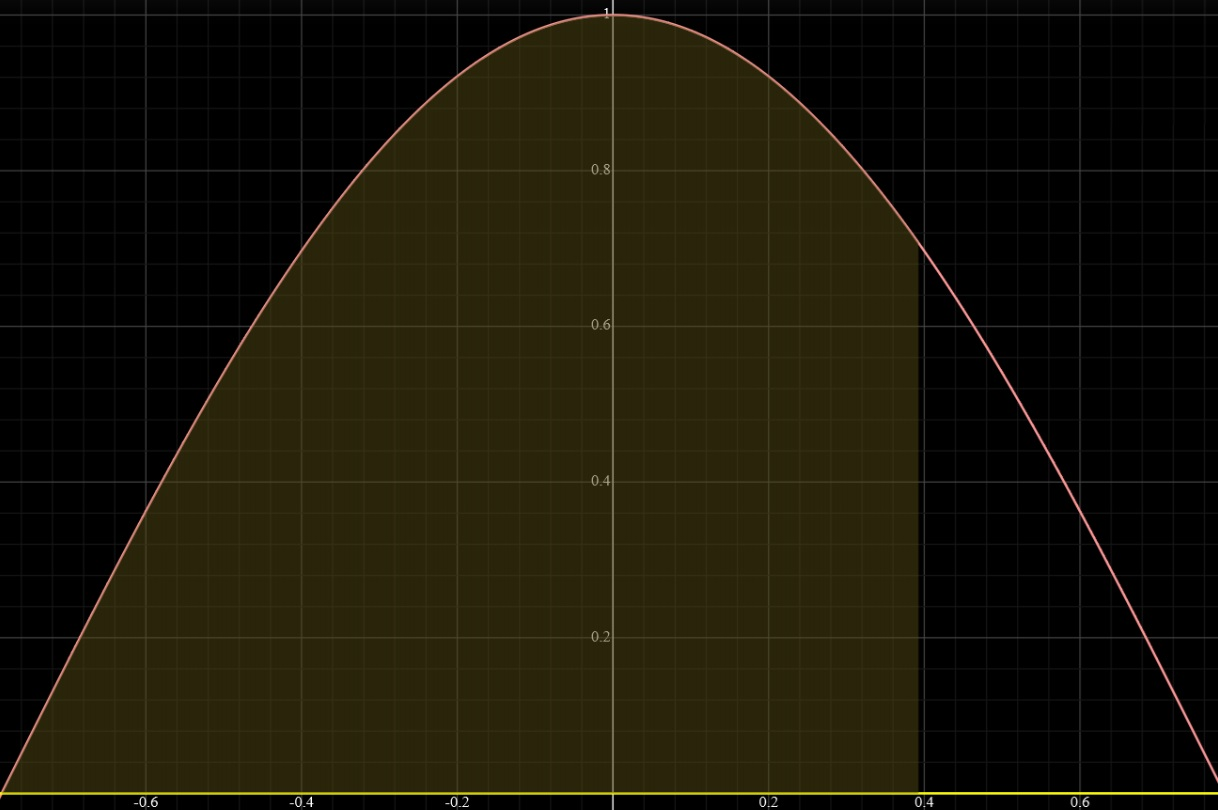
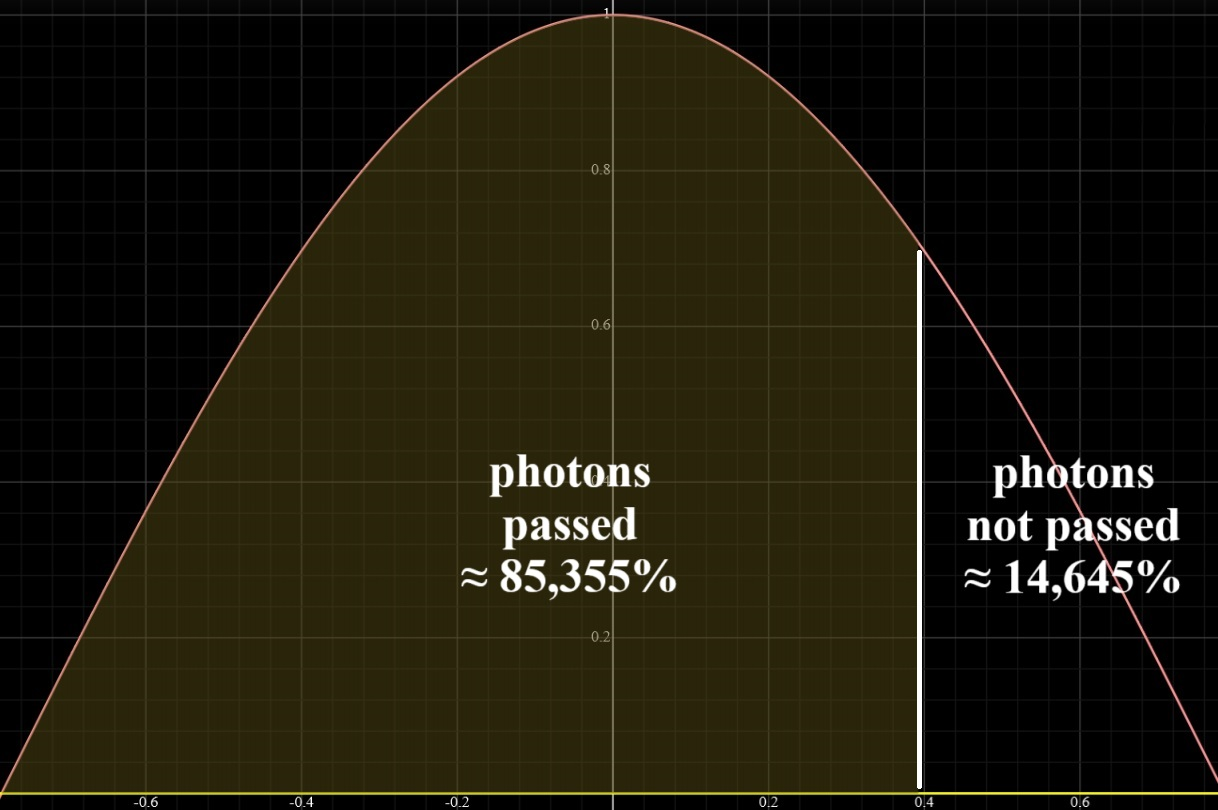
paper1 text fix

Changed region(s): [[0.7488, 0.3086, 0.9672, 0.9877], [0.3744, 0.5556, 0.5616, 0.7407]]

diff --git a/docs/Papers/UnsolvedTwinParadoxLight.ru.md b/docs/Papers/UnsolvedTwinParadoxLight.ru.md
@@ -134,7 +134,7 @@ $v''=l''/t_2=\frac {(l/\gamma)}{(t_1/\gamma)}=v$.
 
 [Квантовый ластик](https://ru.wikipedia.org/wiki/%D0%9A%D0%B2%D0%B0%D0%BD%D1%82%D0%BE%D0%B2%D1%8B%D0%B9_%D0%BB%D0%B0%D1%81%D1%82%D0%B8%D0%BA) также необходимо упомянуть. Добавление линейного поляризатора на первом пути отфильтровывает часть фотонов, которые дополняли интерференционную картину на втором детекторе. То есть физически они также детектируются, но мы их не учитываем. Фактически добавление линейного поляризатора на первом пути не убирает фотоны на втором, а мы их просто исключаем из выборки. Физически второй детектор регистрирует две интерференционные картины, наложенные со смещением, что в сумме дает картину без интерференции. Однако добавлением линейного поляризатора на первом пути мы исключаем из выборки второго детектора фотоны одной из интерференционных картин, а значит, оставляем в выборке только одну интерференционную картину. В результате нет никакой магии квантовой механики, "отложенного выбора" и "чудовищного дальнодействия", а лишь некорректная интерпретация происходящего в эксперименте.
 
-В итоге дифракция, интерференция, кольца Ньютона, поляризация и все прочее - это лишь переизлучение частиц атомами барьеров с соответствующим распределением частиц по векторам. Ключевым моментом, доказывающим, что свет - это частицы, а не волны, является факт отсутствия возможности проведения эксперимента, в котором волны в противофазе гасили бы друг друга. Фактически теория корпускулярно-волнового дуализма позволяет разделить пучок фотонов на две части, прошедшие разные пути и попавшие на детектор или экран в противофазе и полностью погасить друг друга. Но это не удается воспроизвести экспериментально. Более того, нет даже падения интенсивности, что подтверждает концепцию переизлучения с перераспределением частиц. 
+В итоге дифракция, интерференция, кольца Ньютона, поляризация и все прочее - это лишь переизлучение частиц атомами барьеров с соответствующим распределением частиц по векторам. Ключевым моментом, доказывающим, что свет - это частицы, а не волны, является факт отсутствия возможности проведения эксперимента, в котором волны в противофазе гасили бы друг друга. Фактически теория корпускулярно-волнового дуализма позволяет разделить пучок монохромных когерентных фотонов на две части, прошедшие разные пути и попавшие на детектор или экран в противофазе и полностью погасить друг друга. Но это не удается воспроизвести экспериментально. Более того, нет даже падения интенсивности, что подтверждает концепцию переизлучения с перераспределением частиц. 
 
 Необходимо также отметить эксперимент по дифракции на полуплоскости. Его интерпретация согласно корпускулярно-волновому дуализму представлена на рисунке 5. Здесь наблюдается огибание препятствия с распространением частиц в область геометрической тени и полосы с разной интенсивностью частиц на экране. Тут нет наложения волн от двух и более источников, так как физически атомная граница полуплоскости одна. Однако в интерпретации корпускулярно-волнового дуализма здесь должны быть источники вторичных волн в плоскости расположения полуплоскости. Причем именно в пустом пространстве. Это противоречит реальности, так как нет экспериментальных данных доказывающих, что пустота может стать источником переизлучения и, соответственно, вторичных волн. В итоге, данный эксперимент заключается в простом переизлучении атомами края полуплоскости с соответствующим распределением по векторам. 
 
@@ -144,9 +144,9 @@ $v''=l''/t_2=\frac {(l/\gamma)}{(t_1/\gamma)}=v$.
 
 Давайте разберемся, что же именно происходит при дифракции и интерференции. Есть ли научно доказанные экспериментальные факты, что в вакууме меняется направление фотонов без внешних воздействий? Нет. Все фотоны или любые другие частицы, на которые ничего не воздействует или воздействия скомпенсированы, двигаются равномерно и прямолинейно. Когда возникает картина интерференции или дифракции? Только после взаимодействия с атомами препятствий. То есть именно атомы препятствий ответственны за отклонение траекторий частиц (переизлучение) со специфическим распределением по векторам. Давайте разберем, что именно происходит на примере фотона. Хорошо известно, что энергия и, соответственно, частота фотона квантуется. Почему? Так как фотон - это группа квант фотонов и их количество определяет энергию и частоту результирующего фотона. Что происходит при взаимодействии фотонов с атомами препятствия? По всей видимости, электроны препятствия взаимодействуют с фотонами и переизлучают их с соответствующим распределением по векторам. Причем чем выше энергия и частота, то есть количество квант фотонов в фотоне, тем сложнее электрону отклонять фотон и тем меньше углы переизлучения. Аналогично происходит и в случае интерференции или дифракции с другими частицами. И снова никакой магии. Всё просто и понятно.
 
-Необходимо также упомянуть эксперимент с тремя или более поляризаторами, повернутыми на разные углы, который интерпретируют как неопровержимое доказательство квантово-механической природы вселенной. Далее считаем, что поляризаторы идеальные и пропускают 50% фотонов, которые генерируются с равномерным распределением вероятностей их плоскости поляризации. Если поставить два поляризационных фильтра под углом девяносто градусов, то считается, что свет не проходит, так как первый блокирует одно направление волны, а второй - перпендикулярное, то есть все остальное. И из-за этого и не проходят фотоны. Если взять три поляризатора $0^o$, $45^o$, $90^o$, то свет частично проходит. Почему? Дело в неправильной интерпретации фотона и механизма действия поляризатора. 
+Необходимо также упомянуть эксперимент с тремя или более поляризаторами, повернутыми на разные углы, который интерпретируют как неопровержимое доказательство квантово-механической природы вселенной. Далее считаем, что поляризаторы идеальные и пропускают 50% фотонов, которые были сгенерированы с равномерным распределением вероятностей их плоскости поляризации. Если поставить два поляризационных фильтра под углом девяносто градусов, то считается, что свет не проходит, так как первый блокирует одно направление волны, а второй - перпендикулярное, то есть все остальное. И из-за этого и не проходят фотоны. Если взять три поляризатора $0^o$, $45^o$, $90^o$, то свет частично проходит. Почему? Дело в неправильной интерпретации фотона и механизма действия поляризатора. 
 
-Если фотон проходит поляризатор, то он переизлучается с косинусоидальным распределением плоскости поляризации относительно оси данного поляризатора. А именно: $cos(2x)$, где $x$ - угол между осью поляризатора, который преизлучает фотон, и плоскостью поляризации излученного фотона, причем  $-\pi/4 \leq x \leq \pi/4$. Кроме того, поляризатор пропускает только фотоны с плоскостью поляризации в интервале $-\pi/4 \leq x \leq \pi/4$ относительно оси данного поляризатора. Легко понять, что если оси поляризаторов совпадают, то все фотоны пройдут между ними. Если между осями поляризаторов угол, например, $\pi/8 \; (22,5^o)$, то не пройдут второй поляризатор $\int_{-\pi/4}^{\pi/4} cos(2x) \,dx - \int_{-\pi/4}^{(\pi/4-\pi/8)} cos(2x) \,dx \approx$$1-0.85355\approx0,14645\%$ фотонов. 
+Если фотон проходит поляризатор, то он переизлучается с косинусоидальным распределением плоскости поляризации относительно оси данного поляризатора. А именно: $cos(2x)$, где $x$ - угол между осью поляризатора, который преизлучает фотон, и плоскостью поляризации излученного фотона, причем  $-\pi/4 \leq x \leq \pi/4$. Кроме того, поляризатор пропускает только фотоны с плоскостью поляризации в интервале $-\pi/4 \leq x \leq \pi/4$ относительно оси данного поляризатора. Легко понять, что если оси поляризаторов совпадают, то все фотоны пройдут между ними. Если между осями поляризаторов угол, например, $\pi/8 \; (22,5^o)$, то не пройдут второй поляризатор $\int_{-\pi/4}^{\pi/4} cos(2x) \,dx - \int_{-\pi/4}^{(\pi/4-\pi/8)} cos(2x) \,dx \approx$$1-0,85355\approx0,14645\approx$$14,645\%$ фотонов. 
 
 На рисунке 6 представлена картина прохождения сквозь поляризатор всех фотонов ($\int_{-\pi/4}^{\pi/4} cos(2x) \,dx$), если угол между осями поляризаторов $0^o$. 
 
@@ -162,7 +162,7 @@ $v''=l''/t_2=\frac {(l/\gamma)}{(t_1/\gamma)}=v$.
 
 **Рисунок 7 – Картина прохождения сквозь поляризатор фотонов ($\int_{-\pi/4}^{(\pi/4-\pi/8)} cos(2x) \,dx$), если угол между осями поляризаторов $\pi/8 \; (22,5^o)$** 
 
-Если между осями поляризаторов угол, например, $\pi/6 \; (30^o)$, то не пройдут второй поляризатор $\int_{-\pi/4}^{\pi/4} cos(2x) \,dx - \int_{-\pi/4}^{(\pi/4-\pi/6)} cos(2x) \,dx =$$1-0.75=0,25\%$ фотонов. Получаем, что не важно сколько поляризаторов фотон проходил до этого. Важно, что каждый фотон будет заново переизлучен при прохождении сквозь поляризатор и изменит свою плоскость поляризации. В итоге, чем больше поляризаторов, отклоненных на минимальные углы, мы поставим между поляризатором $0^o$ и поляризатором $90^o$, тем больше фотонов пройдет. Это объясняет все наблюдаемые экспериментальные данные и эффекты без нарушения локальности и реализма.
+Если между осями поляризаторов угол, например, $\pi/6 \; (30^o)$, то не пройдут второй поляризатор $\int_{-\pi/4}^{\pi/4} cos(2x) \,dx - \int_{-\pi/4}^{(\pi/4-\pi/6)} cos(2x) \,dx =$$1-0,75=0,25=$$25\%$ фотонов. Получаем, что не важно сколько поляризаторов фотон проходил до этого. Важно, что каждый фотон будет заново переизлучен при прохождении сквозь поляризатор и изменит свою плоскость поляризации. В итоге, чем больше поляризаторов, отклоненных на минимальные углы, мы поставим между поляризатором $0^o$ и поляризатором $90^o$, тем больше фотонов пройдет. Это объясняет все наблюдаемые экспериментальные данные и эффекты без нарушения локальности и реализма.
 
 Вернемся к эксперименту Майкельсона-Морли. У нас здесь есть полупрозрачное зеркало с переизлучающими атомами напыления, которые создают переизлучение фотонов с результатом в виде интерференционной картины. Также предположим, что одно из зеркал может менять расстояние до полупрозрачного зеркала, что смещает интерференционную картину. Это происходит из-за того, что даже минимальное смещение траектории фотонов при попадании на атомы напыления воздействует на процесс переизлучения. Такого рода эффект наблюдателя, который воздействует на интерференцию лишь частично, не ломая её. 
 

diff --git a/docs/Papers/UnsolvedTwinParadoxLight.en.md b/docs/Papers/UnsolvedTwinParadoxLight.en.md
@@ -136,7 +136,7 @@ What is observed is usually interpreted as the superposition of waves from two s
 
 [The quantum eraser experiment](https://en.wikipedia.org/wiki/Quantum_eraser_experiment ) should also be mentioned. The addition of a linear polarizer on the first path filters out some of the photons that complemented the interference pattern on the second detector. That is, photons are also physically detected, but we do not take them into account. In fact, adding a linear polarizer on the first path does not remove photons on the second, but we simply exclude them from the result. Physically, the second detector registers two interference patterns superimposed with an offset, which in total gives a picture without interference. However, by adding a linear polarizer on the first path, we exclude photons from one of the interference patterns from the result of the second detector, which means that we leave only one interference pattern in the result. As a result, there is no magic of quantum mechanics, "delayed choice" and "spooky action at a distance", but only an incorrect interpretation of what is happening in the experiment.
 
-As a result, diffraction, interference, Newton's rings, polarization and all the rest are just the re-emission of particles by barrier atoms with the corresponding distribution of particles along vectors. The key point proving that light is particles, not waves, is the fact that there is no possibility of conducting an experiment in which the waves in the antiphase would extinguish each other. In fact, the theory of wave-particle dualism allows to divide a photon beam into two parts that have passed through different paths and hit a detector or screen in antiphase and completely extinguish each other. But this cannot be reproduced experimentally. Moreover, there is not even a drop in intensity, which confirms the concept of re-emission with particle redistribution.
+As a result, diffraction, interference, Newton's rings, polarization and all the rest are just the re-emission of particles by barrier atoms with the corresponding distribution of particles along vectors. The key point proving that light is particles, not waves, is the fact that there is no possibility of conducting an experiment in which the waves in the antiphase would extinguish each other. In fact, the theory of wave-particle dualism makes it possible to divide a beam of monochrome coherent photons into two parts that have passed through different paths and hit the detector or screen in antiphase and completely neutralized each other. But this cannot be reproduced experimentally. Moreover, there is not even a drop in intensity, which confirms the concept of re-emission with particle redistribution.
 
 It is also necessary to note the experiment on half-plane diffraction. Its interpretation according to the wave-particle dualism is shown in Figure 5. Here, an obstacle is skirted with the propagation of particles into the area of geometric shadow and stripes with different particle intensities on the screen. There is no superposition of waves from two or more sources, since physically the atomic boundary of the half-plane is one source. However, in the interpretation of the wave-particle dualism, there must be sources of secondary waves in the plane of the half-plane. And secondary sources should be located in an empty space. This contradicts reality, since there is no experimental data proving that the void can become a source of re-emission and, accordingly, secondary waves. As a result, this experiment consists in a simple re-emission by atoms of the edge of the half-plane with an appropriate vector distribution.
 
@@ -146,9 +146,9 @@ It is also necessary to note the experiment on half-plane diffraction. Its inter
 
 Let's figure out what exactly happens with diffraction and interference. Are there scientifically proven experimental facts that the direction of photons changes in a vacuum without external influences? No. All photons or any other particles, which are not affected by anything or the effects are compensated, move uniformly and in a straight line. When does the interference or diffraction pattern occur? Only after interacting with the atoms of the obstacles. That is, it is the atoms of the obstacles that are responsible for the deviation of the trajectories of the particles (re-emission) with a specific vector distribution. Let's look at what exactly happens using the example of a photon. It is well known that the energy and, consequently, the frequency of a photon is quantized. Why? Since a photon is a group of quantum photons and their number determines the energy and frequency of the resulting photon. What happens when photons interact with the atoms of an obstacle? Apparently, the electrons of the obstacle interact with photons and re-emit them with an appropriate vector distribution. Moreover, the higher the energy and frequency, that is, the number of quantum photons in a photon, the more difficult it is for an electron to deflect a photon and the smaller the angles of re-emission. The same thing happens in the case of interference or diffraction with other particles. And again, no magic. Everything is simple and clear.
 
-It is also necessary to mention an experiment with three or more polarizers rotated at different angles, which is interpreted as an irrefutable proof of the quantum mechanical nature of the universe. Further, we consider that the polarizers are ideal and pass 50% of the photons that are generated with a uniform probability distribution of their polarization plane. If you put two polarization filters at an angle of ninety degrees, it is assumed that the light does not pass, since the first one blocks one direction of the wave, and the second one is perpendicular, that is, everything else. And because of this, photons do not pass through. If we take three polarizers $0^o$, $45^o$, $90^o$, then the light partially passes through. Why? The problem is a misinterpretation of the photon and the mechanism of action of the polarizer. 
+It is also necessary to mention an experiment with three or more polarizers rotated at different angles, which is interpreted as an irrefutable proof of the quantum mechanical nature of the universe. Further, we consider that the polarizers are ideal and pass 50% of the photons that were generated with a uniform probability distribution of their polarization plane. If you put two polarization filters at an angle of ninety degrees, it is assumed that the light does not pass, since the first one blocks one direction of the wave, and the second one is perpendicular, that is, everything else. And because of this, photons do not pass through. If we take three polarizers $0^o$, $45^o$, $90^o$, then the light partially passes through. Why? The problem is a misinterpretation of the photon and the mechanism of action of the polarizer. 
 
-If a photon passes through a polarizer, it is re-emitted with a cosine distribution of the plane of polarization relative to the axis of this polarizer. Namely: $cos(2x)$, where $x$ is the angle between the axis of the polarizer that re-emits the photon and the plane of polarization of the emitted photon, also $-\pi/4 \leq x \leq \pi/4$. In addition, the polarizer passes only photons with a polarization plane in the range $-\pi/4 \leq x \leq \pi/4$ relative to the axis of this polarizer. It is easy to understand that if the axes of the polarizers coincide, then all photons pass between them. If there is an angle between the axes of the polarizers, for example, $\pi/8\; (22.5^o)$, then the second polarizer will not pass $\int_{-\pi/4}^{\pi/4} cos(2x) \,dx - \int_{-\pi/4}^{(\pi/4-\pi/8)} cos(2x) \,dx \approx$$1-0.85355\approx0,14645\%$ photons.
+If a photon passes through a polarizer, it is re-emitted with a cosine distribution of the plane of polarization relative to the axis of this polarizer. Namely: $cos(2x)$, where $x$ is the angle between the axis of the polarizer that re-emits the photon and the plane of polarization of the emitted photon, also $-\pi/4 \leq x \leq \pi/4$. In addition, the polarizer passes only photons with a polarization plane in the range $-\pi/4 \leq x \leq \pi/4$ relative to the axis of this polarizer. It is easy to understand that if the axes of the polarizers coincide, then all photons pass between them. If there is an angle between the axes of the polarizers, for example, $\pi/8\; (22.5^o)$, then the second polarizer will not pass $\int_{-\pi/4}^{\pi/4} cos(2x) \,dx - \int_{-\pi/4}^{(\pi/4-\pi/8)} cos(2x) \,dx \approx$$1-0,85355\approx0,14645\approx$$14,645\%$ photons.
 
 
 Figure 6 shows a picture of the passage of all photons through the polarizer ($\int_{-\pi/4}^{\pi/4} cos(2x) \,dx$) if the angle between the axes of the polarizers is $0^o$.
@@ -166,7 +166,7 @@ Figure 7 shows a picture of photons passing through the polarizer ($\int_{-\pi/4
 **Figure 7 – A picture of photons passing through the polarizer ($\int_{-\pi/4}^{(\pi/4-\pi/8)} cos(2x) \,dx$) if the angle between the axes of the polarizers is $\pi/8 \; (22,5^o)$**
 
 
-If there is an angle between the axes of the polarizers, for example, $\pi/6 \; (30^o)$, then the second polarizer will not pass $\int_{-\pi/4}^{\pi/4} cos(2x) \,dx - \int_{-\pi/4}^{(\pi/4-\pi/6)} cos(2x) \,dx =$$1-0.75=0,25\%$ photons. We get that it doesn't matter how many polarizers the photon has passed before. It is important that each photon will be re-emitted when passing through the polarizer and will change its own plane of polarization. As a result, the more polarizers deflected by the minimum angles, we put between the $0^o$ polarizer and the $90^o$ polarizer, the more photons will pass. This explains all the observed experimental data and effects without violating locality and realism.
+If there is an angle between the axes of the polarizers, for example, $\pi/6 \; (30^o)$, then the second polarizer will not pass $\int_{-\pi/4}^{\pi/4} cos(2x) \,dx - \int_{-\pi/4}^{(\pi/4-\pi/6)} cos(2x) \,dx =$$1-0,75=0,25=$$25\%$ photons. We get that it doesn't matter how many polarizers the photon has passed before. It is important that each photon will be re-emitted when passing through the polarizer and will change its own plane of polarization. As a result, the more polarizers deflected by the minimum angles, we put between the $0^o$ polarizer and the $90^o$ polarizer, the more photons will pass. This explains all the observed experimental data and effects without violating locality and realism.
 
 Let's return to the Michelson-Morley experiment. Here we have a half-transparent mirror with re-emitting by sputtered silver atoms, which create a re-emission of photons with the result in the form of an interference pattern. Also assume that one of the mirrors can change the distance to the half-transparent mirror, which shifts the interference pattern. This is due to the fact that even the minimal displacement of the photon trajectory when hitting the sputtered silver atoms affects the process of re-emission. This is the kind of observer effect that affects interference only partially, without breaking it.
 
